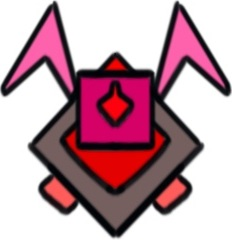
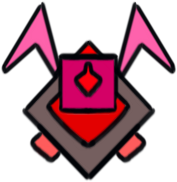
попытка установить анимацию

diff --git a/enemy_file.py b/enemy_file.py
@@ -272,6 +272,12 @@ class Fly(Enemy):
         self.rl = True
         self.count = 0
         self.all_way_straight = 0
+        self.image_run = [self.image]
+        for i in range(4):
+            self.image_run.append(transform.scale(
+                image.load('tiles\\enemy\\fly_animation\\' + str(i + 1) + '.png').convert(), rect_size))
+        self.last_timer = 0
+        self.timer = 0
 
     def update(self):
         super().update()
@@ -279,12 +285,18 @@ class Fly(Enemy):
             self.target()
         else:
             self.standard()
+            if self.timer - self.last_timer >= 20:
+                self.image = self.image_run[self.count % 5]
+                self.image.set_colorkey((255, 255, 255))
+                self.count += 1
+                self.last_timer = self.timer
         if self.rect.right < 0:
             self.kill()
             self.rl = True
         elif self.rect.x > WIDTH:
             self.kill()
             self.rl = False
+        self.timer += 1
 
     def target(self):
         pass

diff --git a/player_file.py b/player_file.py
@@ -43,8 +43,9 @@ class Player(sprite.Sprite):
                                                (rect_size - 5, rect_size * 2 - 5))
         self.player_img_right = transform.flip(self.player_img_left, True, False)
         for i in range(6):
-            self.player_img_left_run.append(transform.scale(image.load('player\\' + str(i + 1) + '.png').convert(),
-                                                            (rect_size - 5, rect_size * 2 - 5)))
+            self.player_img_left_run.append(
+                transform.scale(image.load('player\\big_bun\\' + str(i + 1) + '.png').convert(),
+                                (rect_size - 5, rect_size * 2 - 5)))
             self.player_img_right_run.append(transform.flip(self.player_img_left_run[-1], True, False))
         self.image = self.player_img_left
         self.image.set_colorkey((255, 255, 255))
